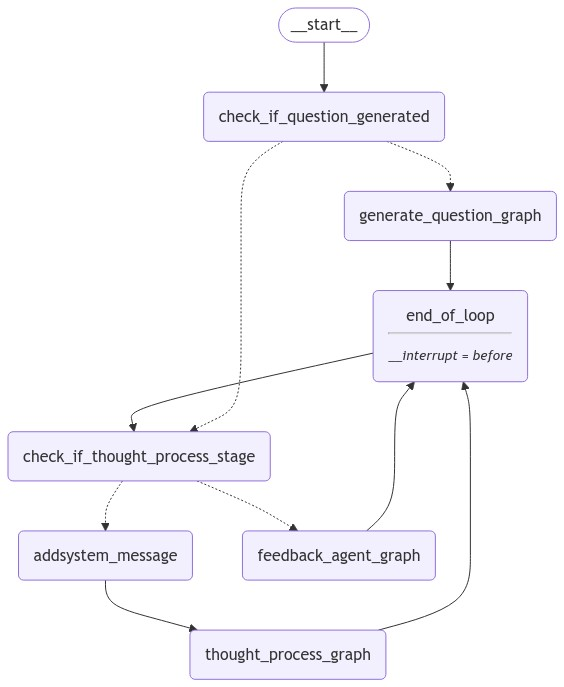
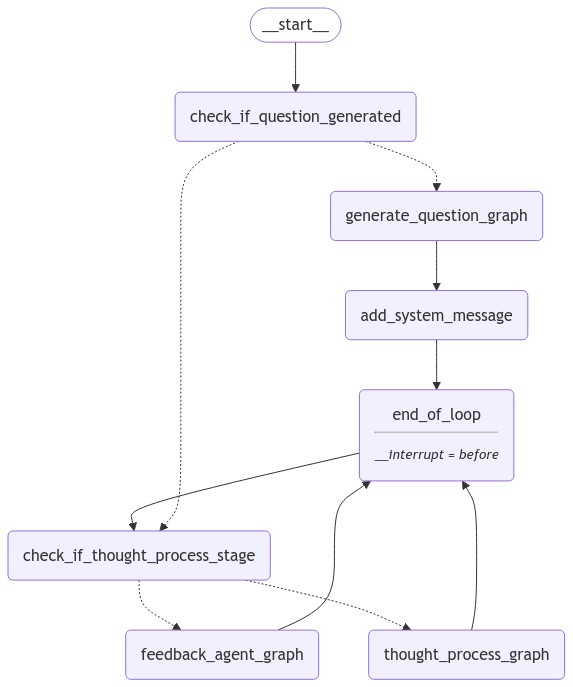
small improvements

diff --git a/app/agents/main_graph.py b/app/agents/main_graph.py
@@ -30,26 +30,26 @@ g.add_conditional_edges(
 )
 
 g.add_node(n(generate_question_graph), generate_question_graph)
-g.add_edge(n(generate_question_graph), "end_of_loop")
+g.add_edge(n(generate_question_graph), "add_system_message")
+
+g.add_node(
+    "add_system_message",
+    lambda x: {"messages": [default_system_message(x.interview_question)]},
+)
+g.add_edge("add_system_message", "end_of_loop")
 
 g.add_node("check_if_thought_process_stage", RunnablePassthrough())
 g.add_conditional_edges(
     "check_if_thought_process_stage",
     lambda x: (
-        "addsystem_message" if x.is_thought_process_stage else n(feedback_agent_graph)
+        n(thought_process_graph) if x.is_thought_process_stage else n(feedback_agent_graph)
     ),
-    [n(feedback_agent_graph), "addsystem_message"],
+    [n(feedback_agent_graph), n(thought_process_graph)],
 )
 
 g.add_node(n(thought_process_graph), thought_process_graph)
 g.add_edge(n(thought_process_graph), "end_of_loop")
 
-
-g.add_node(
-    "addsystem_message",
-    lambda x: {"messages": [default_system_message(x.interview_question)]},
-)
-g.add_edge("addsystem_message", n(thought_process_graph))
 
 g.add_node(n(feedback_agent_graph), feedback_agent_graph)
 g.add_edge(n(feedback_agent_graph), "end_of_loop")

diff --git a/app/agents/system_messages.py b/app/agents/system_messages.py
@@ -2,7 +2,7 @@ from langchain_core.messages import SystemMessage
 
 def default_system_message(interview_question: str):
     return SystemMessage(
-        content="""
+        content=f"""
 You are a seasoned senior software engineer interviewing candiate SWE.
 
 Follow these rules:
@@ -12,7 +12,7 @@ Follow these rules:
     - Think out loud: Encourage the candidate to walk through their thought process verbally before writing any code.
 3. Ask clarifying questions: Inform the candidate that they can ask clarifying questions at any point.
 
-The interview question for today is:
+The interview question for today is the following:
 {interview_question}
 """
     )

diff --git a/run_graph.py b/run_graph.py
@@ -9,7 +9,7 @@ config = {"configurable": {"thread_id": thread_id}, "recursion_limit": 100}
 result = main_graph.invoke({"difficulty_level": "easy"}, config)
 
 print("-" * 50)
-print("Interview Question:", result["interview_question"])
+print("Interview Question is generated:\n", result["interview_question"])
 print("-" * 50)
 print("\n\n")
 
@@ -24,5 +24,5 @@ while True:
     print("-" * 50)
     print("Interviewer replied:\n", result["message_from_interviewer"])
     print("-" * 50)
-    input("Press Enter to continue...")
     print("\n\n")
+
